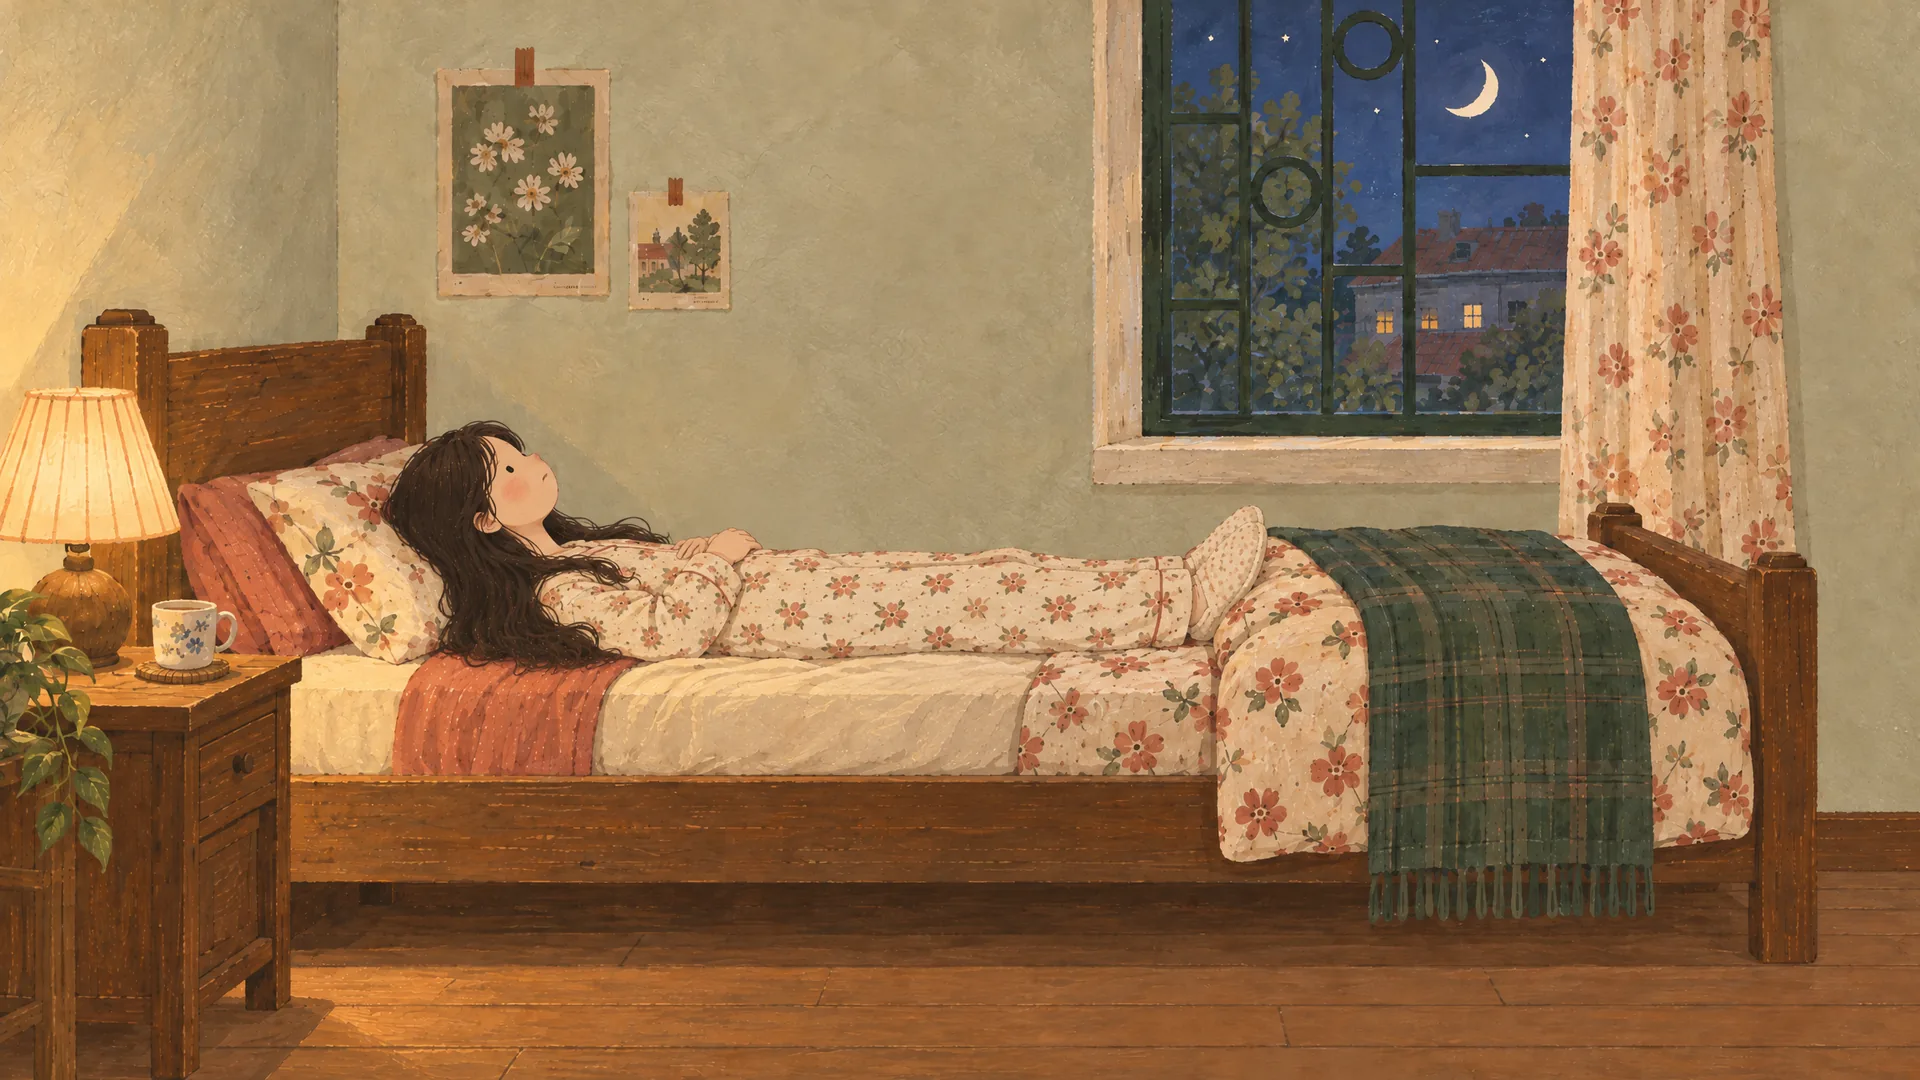
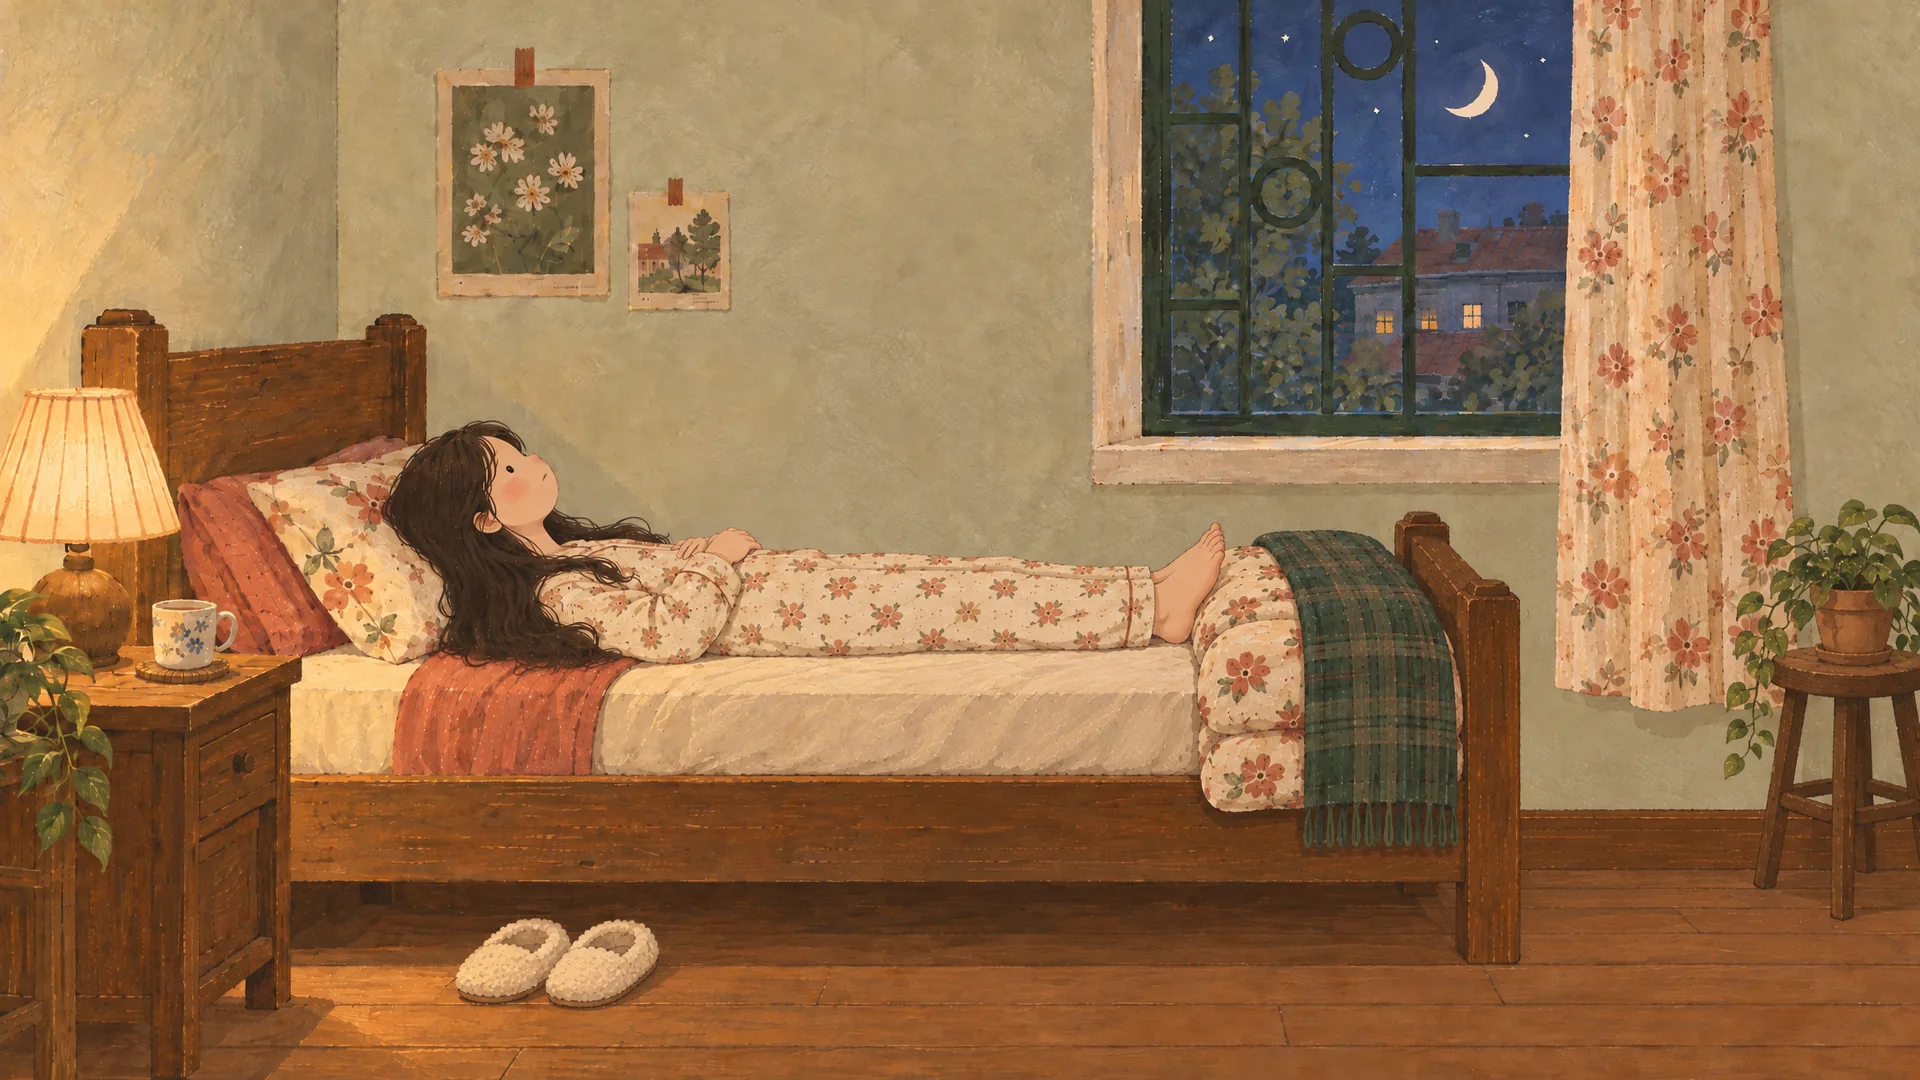
Cảnh ngủ làm lại: giường ngắn, chân trần khi nằm, thêm khung trung gian cho chăn (5 khung)
Claude-Session: https://claude.ai/code/session_01NNufcRGgGR466W2diK9eTR

diff --git a/src/activities/Sleep.ts b/src/activities/Sleep.ts
@@ -3,9 +3,9 @@ import { Gender } from "../core/GameState";
 import { t } from "../core/i18n";
 import { Dialogue } from "../ui/Dialogue";
 
-export const SLEEP_FRAMES = 4;
+export const SLEEP_FRAMES = 5;
 
-/** Nạp 4 tranh cảnh ngủ của nhân vật đã chọn (gọi trong preload). */
+/** Nạp 5 tranh cảnh ngủ của nhân vật đã chọn (gọi trong preload). */
 export function loadSleepFrames(scene: Phaser.Scene, gender: Gender): void {
   for (let i = 1; i <= SLEEP_FRAMES; i++) {
     scene.load.image(`sleep-${gender}-${i}`, `assets/cutscenes/sleep-${gender}-${i}.webp`);
@@ -16,7 +16,7 @@ const D = 20000; // phủ lên cả cảnh căn hộ
 
 /**
  * Clip ngủ, tự chạy từ đầu đến cuối, không có nút bỏ qua và người chơi không phải làm gì:
- * ngồi mép giường → nằm xuống → đắp chăn → nhắm mắt, tắt đèn.
+ * ngồi mép giường → nằm xuống → chăn kéo lên từng bước → nhắm mắt, tắt đèn.
  * full = false là "nghỉ một lát" ban ngày: dừng sau khi đắp chăn, không tắt đèn.
  */
 export async function runSleep(
@@ -34,14 +34,15 @@ export async function runSleep(
     new Promise<void>((res) => scene.tweens.add({ targets, ...props, duration, onComplete: () => res() }));
   const caption = (key: string) => dialogue.show(t(key));
 
-  await tween(frames[0], { alpha: 1 }, 700); // 1. ngồi ở mép giường, đèn ngủ sáng
+  await tween(frames[0], { alpha: 1 }, 700); // 1. ngồi ở mép giường (đi dép), đèn ngủ sáng
   await caption("sleep.sit");
-  await tween(frames[1], { alpha: 1 }, 1000); // 2. nằm xuống
+  await tween(frames[1], { alpha: 1 }, 1000); // 2. nằm xuống, chân trần, dép để dưới sàn
   await caption("sleep.lie");
-  await tween(frames[2], { alpha: 1 }, 1200); // 3. chăn tự kéo lên tới vai
+  await tween(frames[2], { alpha: 1 }, 900); // 3. chăn kéo tới ngực (ảnh liền kề nên chuyển mờ không bị chồng)
+  await tween(frames[3], { alpha: 1 }, 1100); // 4. chăn kéo tới vai
   await caption(full ? "sleep.covered" : "sleep.rest");
   if (full) {
-    await tween(frames[3], { alpha: 1 }, 1600); // 4. nhắm mắt, đèn tắt, ánh trăng
+    await tween(frames[4], { alpha: 1 }, 1600); // 5. nhắm mắt, đèn tắt, ánh trăng
     await caption("sleep.eyes_closed");
   }
   await tween(black, { fillAlpha: 1 }, full ? 900 : 500);
